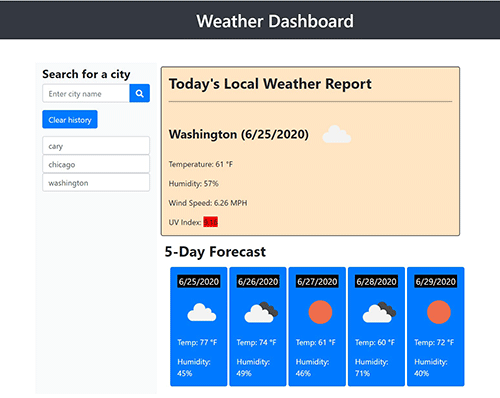
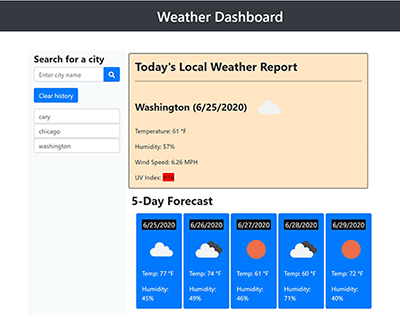
updated readme and deleted unwanted image files

diff --git a/index.html b/index.html
@@ -70,7 +70,7 @@
 
                             <div class="col-md-12">
 
-                                <p style="font-weight: bold; font-size: 30px; padding-top: 10px;">Today's Local Weather Report</p>
+                                <p style="font-weight: bold; font-size: 30px; padding-top: 10px;">Current Local Weather conditions</p>
                                 <hr id="hori" />
                                 <span id="cityName" class="cityName align-middle" style="font-weight: bold;"></span>
 

diff --git a/README.md b/README.md
@@ -9,32 +9,31 @@
 # Title: Weather Dashboard
 
 # Introduction:   
-Create a timed quiz app using JavaScript that stores high scores. Code quiz consists of multiple-choice questions with color change and sound feature for right and wrong answer. The app will run in the browser and feature dynamically updated HTML and CSS powered by JavaScript code. It will also feature a clean and polished user interface and be responsive, ensuring that it adapts to multiple screen sizes.
+Create weather dashboard using the OpenWeather API and local storage to display weather data for cities.
 
 # Technologies: 
-HTML, CSS, Javascript
+HTML, CSS, bootstrap jQuery, api (openweather, axios)
 
 # Features
 Created the following 
-html files: 
-  * index.html, highscores.html game.html, end.html 
-js files: 
-  * highscores.js, end.js, game.js
-css files
-  * game.css, highscores.css, style.css
+html file: 
+  * index.html
+js file: 
+  * script.js
+css file:
+  * styles.css
 
 Developed the site with the following features:
-  * User is presented with a start quiz button to begin the quiz
-  * A timer starts with total 75 secs in the top right of the app and immediately the user is presented with a question
-  * When one question is answered, the user is presented with another question (Upto seven questions)
-  * A "Right" or "Wrong" message is displayed below the nmultiple choice questions when a user selects an answer
-  * When the answer is correct, a sound is heard and the button color turns green 
-  * When the answer is incorrect, a sound is heard and the button color turns red. Also 10 seconds is subtracted from
-    the timer for each incorrect answer
-  * The quiz ends When all questions are answered or the timer reaches 0 
-  * When the quiz is over, the user can save their initials and the time score
-  * The user can start a new quiz by clicking "Go Back" button
-
+  * User is presented with form input to search the weather conditions for a city 
+  * The user is presented with current and future conditions for the city of user's choice and that city is added to the search history which is displayed below the input form
+  * In the Current Local Weather conditions section, the user is presented with the city name, the date, an icon representation of weather conditions, the temperature, the humidity, the wind speed, and the UV index
+  * The UV index is color coded that indicates whether the conditions are favorable, moderate, or severe
+  * The 5-day forecast section displays the future weather conditions for that city  with date, an icon representation of weather conditions, the temperature, and the humidity
+  * When the user clicks on a city in the search history, the user is again presented with the  current and future conditions for that city
+  * If the user opens the weather dashboard application again, the user is presented with the last searched city forecast
+  * The Clear history button clears the search history
+  
+  
 Used HTML validation service to ensure that each page has valid HTML.
 
 # Launch
